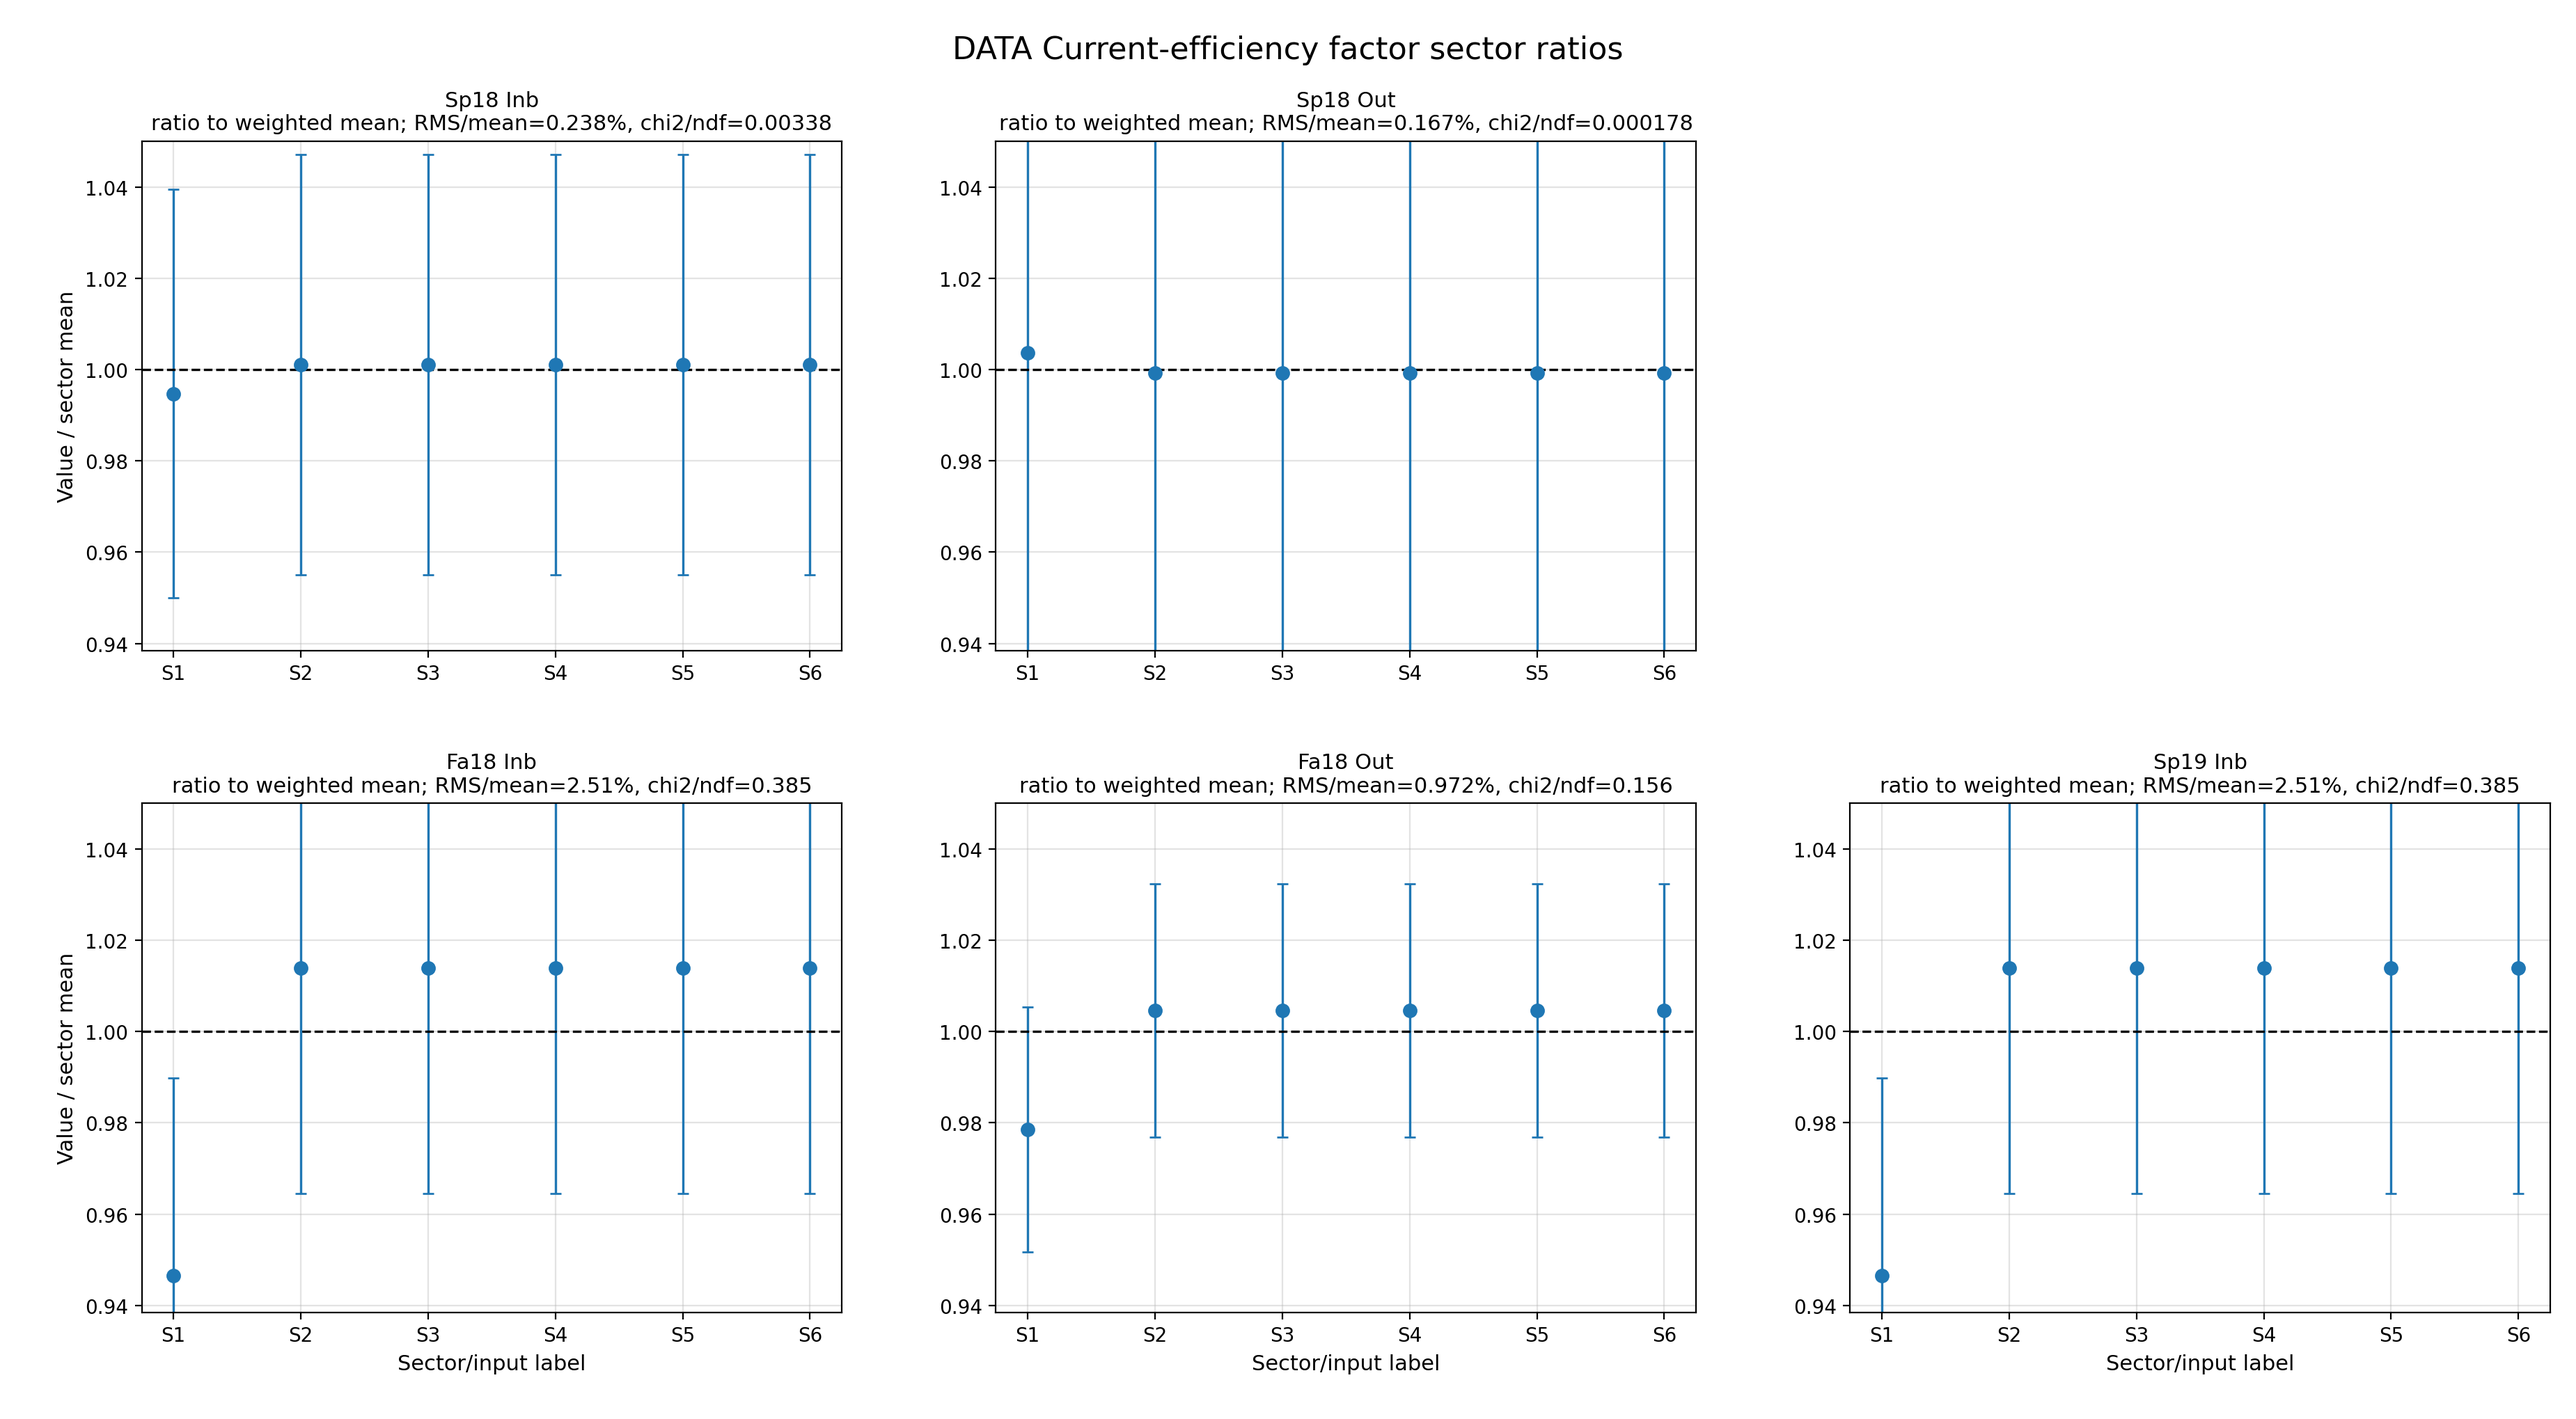
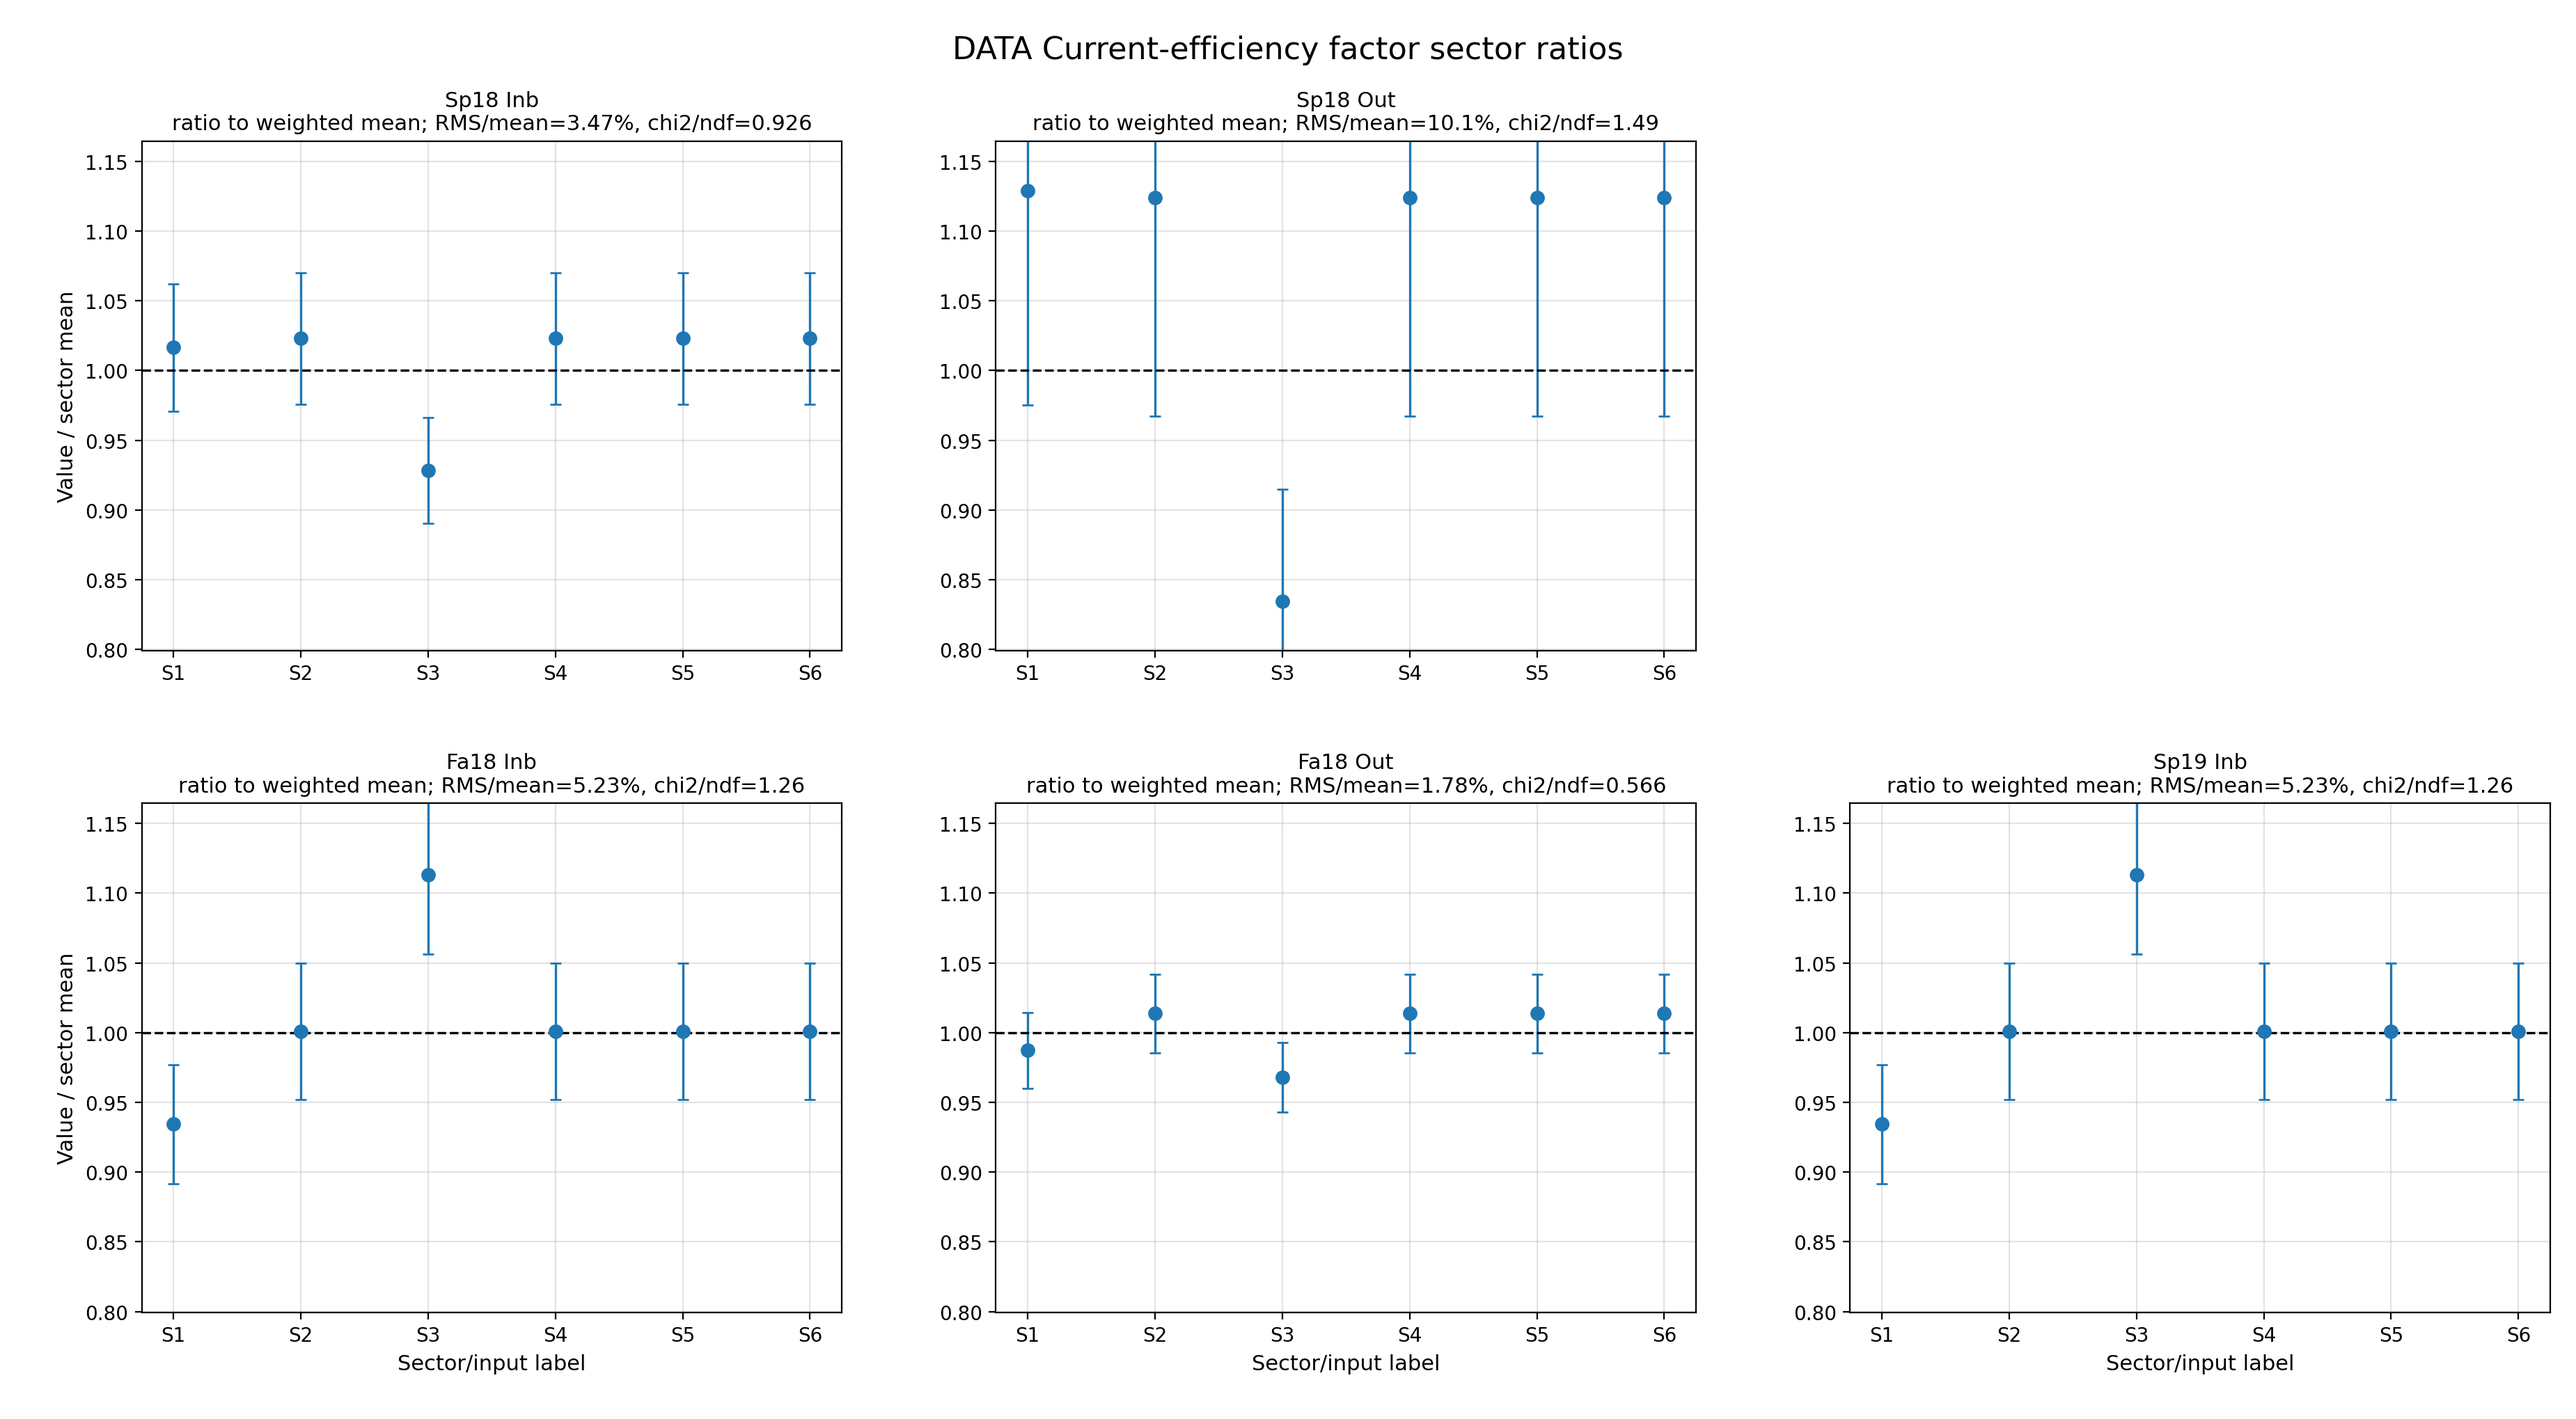
refactor of dvcs analysis to allow for global selection of: topology, electron FD sector, photon FD sector, proton FD sector and proton CD sector

diff --git a/analysis_scripts/dvcs_cross_section/main.cpp b/analysis_scripts/dvcs_cross_section/main.cpp
@@ -68,7 +68,7 @@ int main(int argc, char* argv[]) {
 
     // Electron FD sector study. Electron is always FD.
     global_cfg.enable_electron_fd_sector_filter = true;
-    global_cfg.electron_fd_sector = 4;
+    global_cfg.electron_fd_sector = 5;
 
     // Proton FD sector study. This automatically keeps only FD-FD events.
     global_cfg.enable_proton_fd_sector_filter = false;
